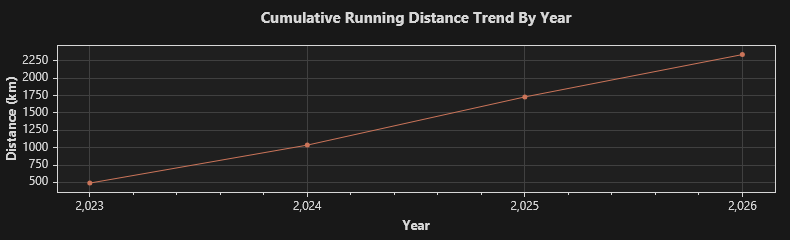
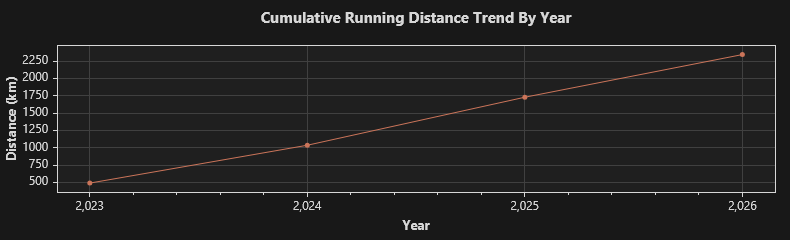
2026/10/26 跑步 6.13 公里

diff --git a/trend.md b/trend.md
@@ -1,4 +1,4 @@
-### Total: 396 days, 2337.1799999999998362909536809 km.
+### Total: 397 days, 2343.3099999999999454303178936 km.
 
 
 ![Monthly](https://github.com/prime167/MyRunningLog/blob/main/data/CumulativeTrendByMonth.png)
